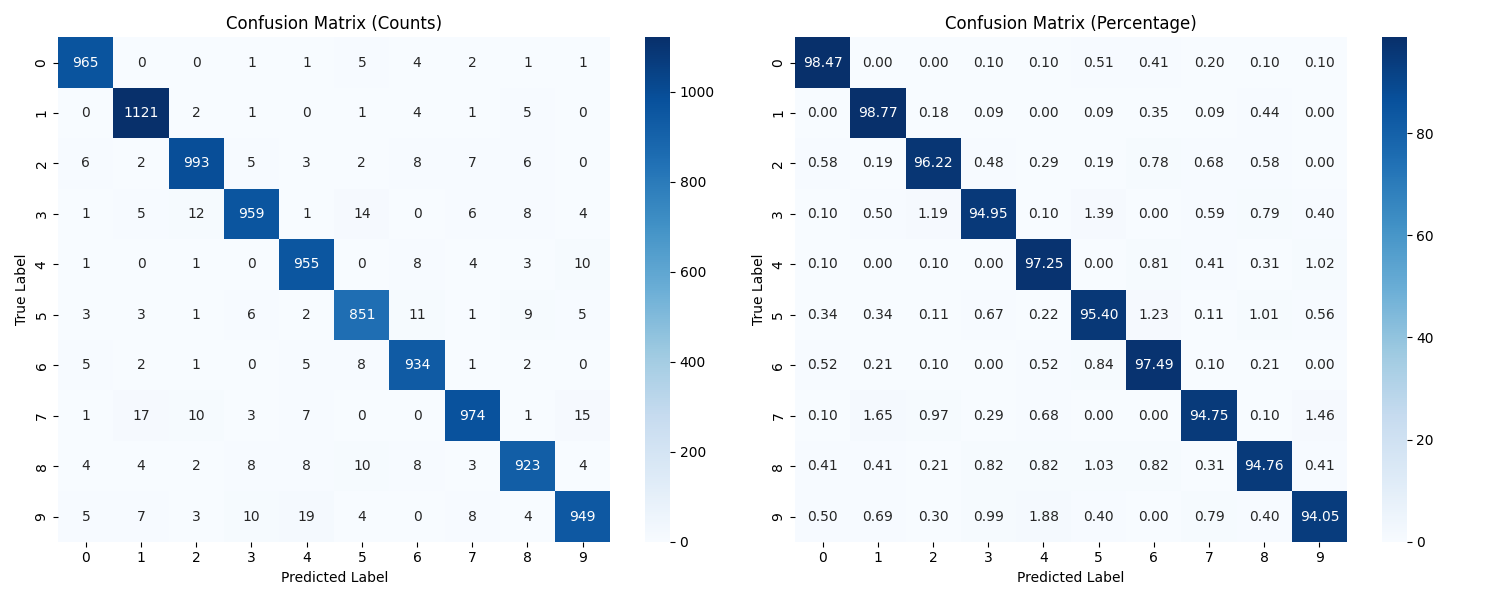
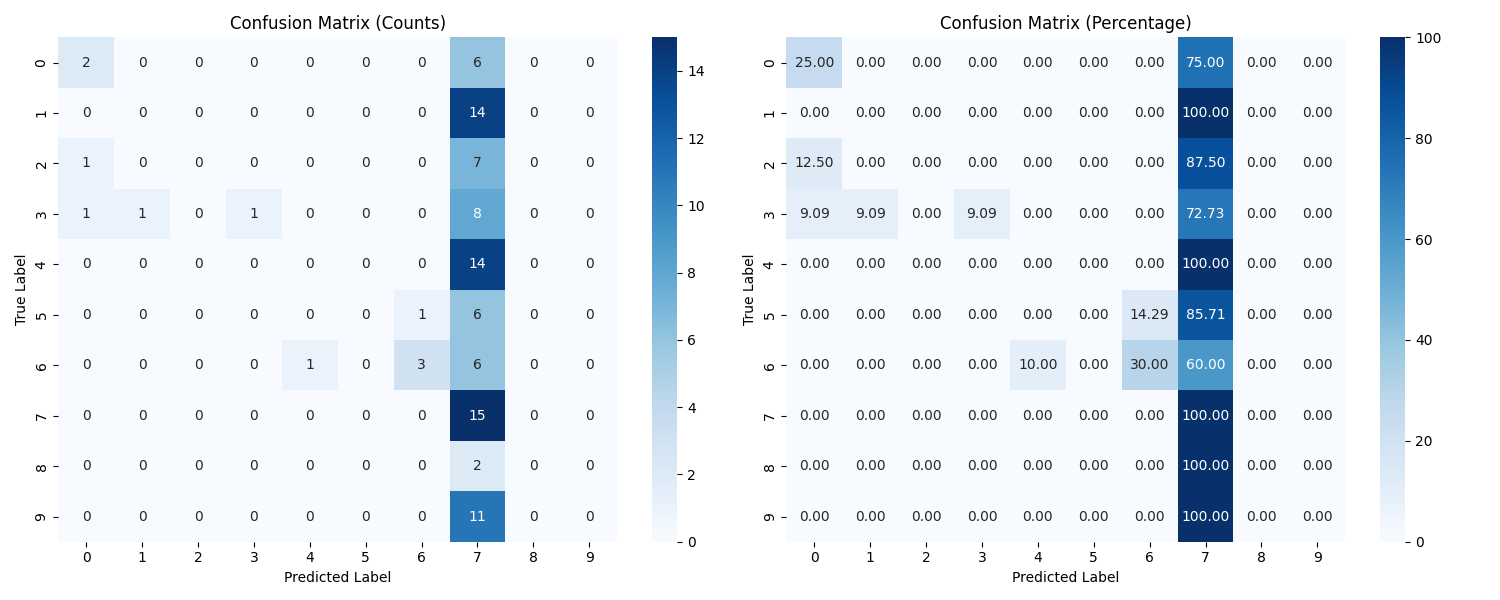
Calculating results

diff --git a/lab4/mnist.py b/lab4/mnist.py
@@ -7,6 +7,7 @@ import seaborn as sns
 import matplotlib.pyplot as plt
 import argparse
 import sys
+import json
 
 
 class NeuralNetwork:
@@ -113,6 +114,24 @@ class NeuralNetwork:
         exps = np.exp(x - x.max())
         return exps / np.sum(exps, axis=0) * (1-exps / np.sum(exps, axis=0))
 
+    def results(self, matrix, number):
+        tp = matrix[number][number]
+        fptp = sum(matrix[number])
+        tntp = 0
+        for i in range(10):
+            tntp += matrix[i][number]
+
+        precision = round(tp / fptp, 2) if fptp != 0 else 0
+        recall = round(tp / tntp, 2) if tntp != 0 else 0
+        f1_score = round(2 / ((1 / (tp / fptp)) + (1 / (tp / tntp))), 2) if fptp != 0 and tntp != 0 else 0
+
+        return {
+            "number": number,
+            "precision": precision,
+            "recall": recall,
+            "f1-score": f1_score
+        }
+
     def confusion_matrix(self, test_images, test_labels):
         predictions = []
         for i in range(len(test_images)):
@@ -121,7 +140,6 @@ class NeuralNetwork:
             predictions.append(pred)
 
         true_labels = np.argmax(test_labels, axis=1)
-
         cm = confusion_matrix(true_labels, predictions)
         cm_percentage = (cm.astype('float') /
                          cm.sum(axis=1)[:, np.newaxis] * 100)
@@ -147,6 +165,15 @@ class NeuralNetwork:
         plt.tight_layout()
         plt.savefig("results/confusion_matrix_with_percentage.png")
 
+        dict = []
+        matrix = confusion_matrix(true_labels, predictions)
+        for i in range(10):
+            dict.append(self.results(cm, i))
+        print(matrix)
+        print(dict)
+
+
+
 
 def main(arguments):
     parser = argparse.ArgumentParser()
@@ -164,10 +191,10 @@ def main(arguments):
     ((train_images, train_labels),
      (test_images, test_labels)) = mnist.load_data()
 
-    # train_images = train_images[:1000]
-    # train_labels = train_labels[:1000]
-    # test_images = test_images[:100]
-    # test_labels = test_labels[:100]
+    train_images = train_images[:1000]
+    train_labels = train_labels[:1000]
+    test_images = test_images[:100]
+    test_labels = test_labels[:100]
 
     train_images = train_images.reshape((len(train_images), -1)) / 255
     test_images = test_images.reshape((len(test_images), -1)) / 255
